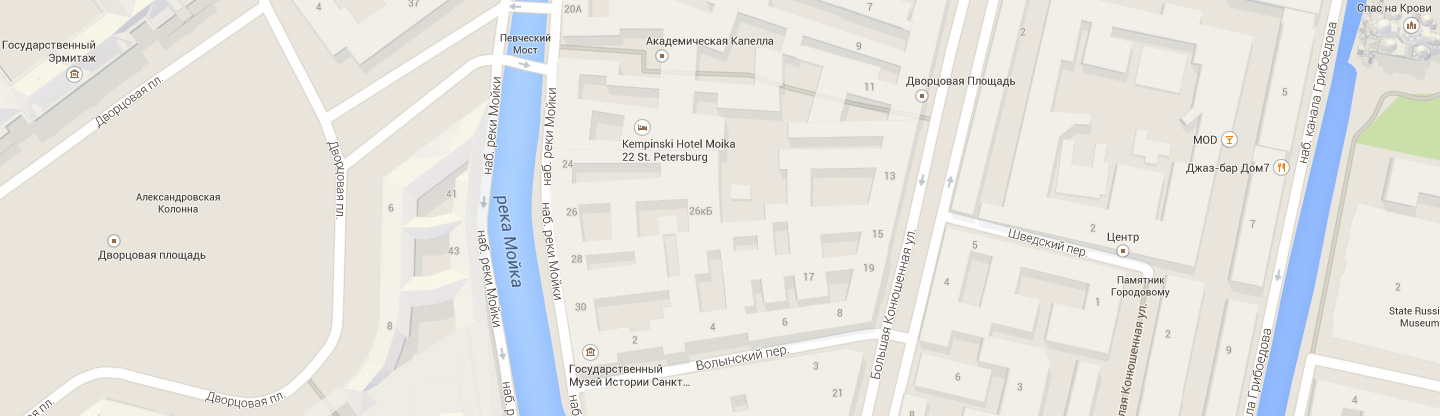
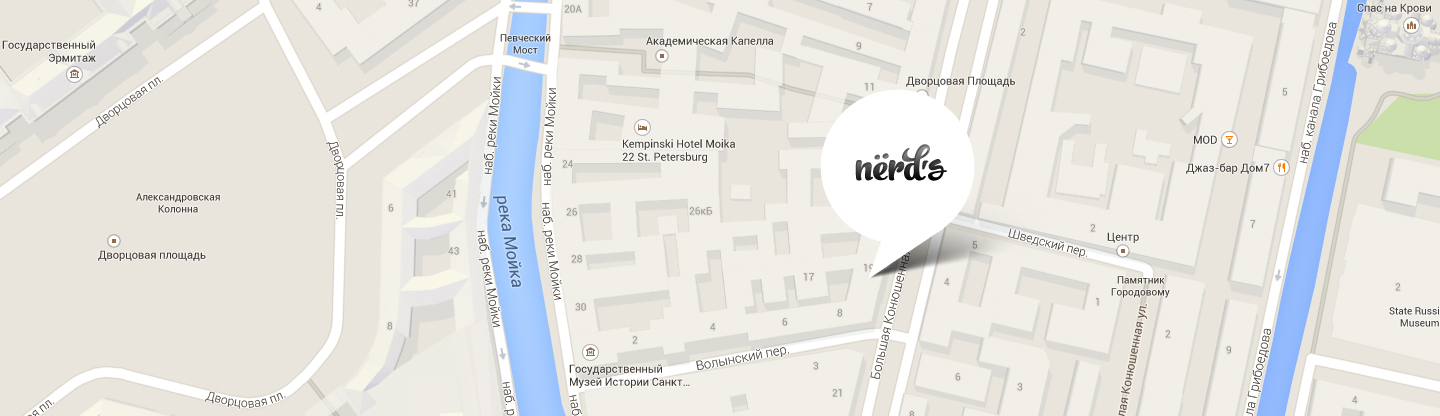
Защита v1.0

Changed region(s): [[0.5625, 0.2188, 0.6875, 0.6562]]

diff --git a/index.html b/index.html
@@ -145,8 +145,9 @@
       <h2 class="visually-hidden">Как нас найти</h2>
       <iframe src="https://www.google.com/maps/embed?pb=!1m18!1m12!1m3!1d1998.6036253003165!2d30.320858716173472!3d59.938719169054075!2m3!1f0!2f0!3f0!3m2!1i1024!2i768!4f13.1!3m3!1m2!1s0x4696310fca145cc1%3A0x42b32648d8238007!2z0JHQvtC70YzRiNCw0Y8g0JrQvtC90Y7RiNC10L3QvdCw0Y8g0YPQuy4sIDE5LzgsINCh0LDQvdC60YIt0J_QtdGC0LXRgNCx0YPRgNCzLCDQoNC-0YHRgdC40Y8sIDE5MTE4Ng!5e0!3m2!1sru!2sch!4v1560251556465!5m2!1sru!2sch" style="border:0" allowfullscreen></iframe>
       <div class="container map-container">
+        <!--
         <img class="map-image" src="img/map.jpg" width="1440" height="416" alt="Карта">
-        <img class="map-marker" src="img/map-marker.png" width="231" height="190" alt="Мы здесь">
+        <img class="map-marker" src="img/map-marker.png" width="231" height="190" alt="Мы здесь">-->
         <div class="contacts">
           <h3 class="contacts-title">Nёrds design studio</h3>
           <p>191186, Санкт-Петербург, ул. Б. Конюшенная, д. 19/8</p>

diff --git a/css/style.css b/css/style.css
@@ -768,7 +768,7 @@ a {
   font-size: 18px;
   line-height: 22px;
   font-family: "Roboto", "Arial", sans-serif;
-  padding: 8px 15px;
+  padding: 8px 10px;
   width: 80px;
   border-radius: 5px;
   -webkit-box-sizing: border-box;
@@ -1189,9 +1189,11 @@ textarea:focus::-webkit-input-placeholder {
 
 .map {
   padding: 0;
-  padding-top: 55px;
+  padding-top: 53px;
   padding-bottom: 53px;
   position: relative;
+  background: url(../img/map.jpg) no-repeat center;
+  background-size: contain;
 }
 
 .map-container {
@@ -1200,7 +1202,7 @@ textarea:focus::-webkit-input-placeholder {
 
 .map iframe {
   width: 100%;
-  height: 416px;
+  height: 100%;
   position: absolute;
   z-index: 2;
   top: 0;
